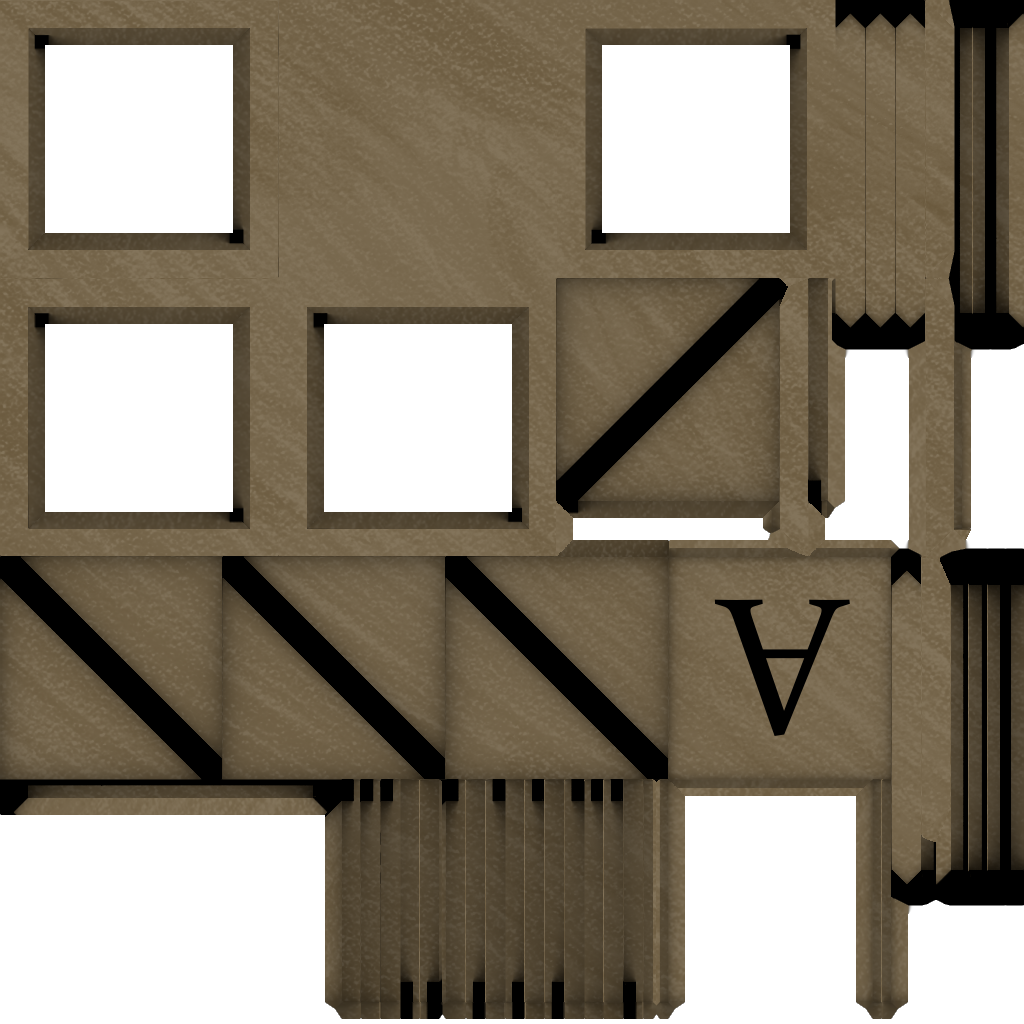
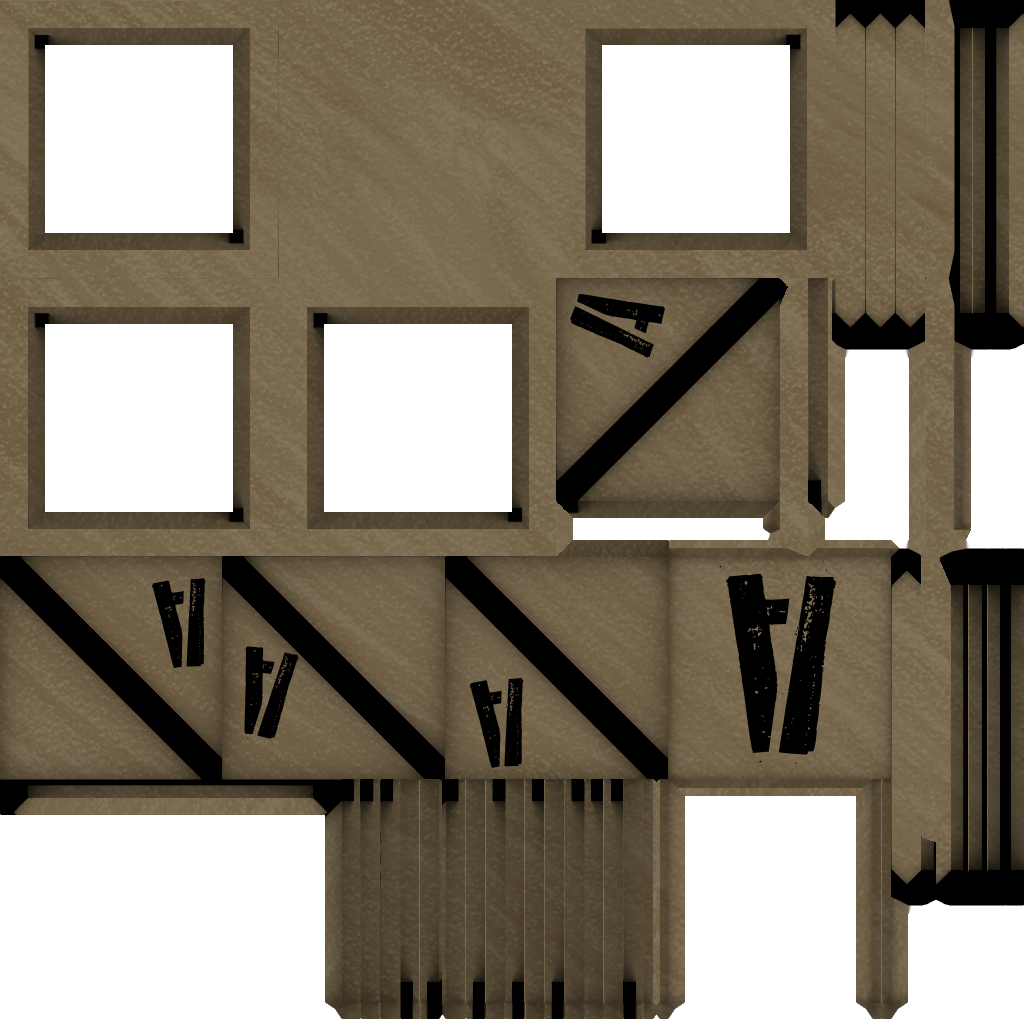
Redid crate textures

diff --git a/src/levels/sorting.js b/src/levels/sorting.js
@@ -3,7 +3,7 @@ export const data = {
     cratesDelivered: 0,
     cameraDistance: 5,
     cameraPosition: [1, 0, 0],
-    cameraStartAngle: [Math.PI*(6/4), Math.PI*(1/8)],
+    cameraStartAngle: [Math.PI*(6/4), Math.PI*(2/8)],
     floorHeight: -5,
     elements: [
         // Main Conveyor
